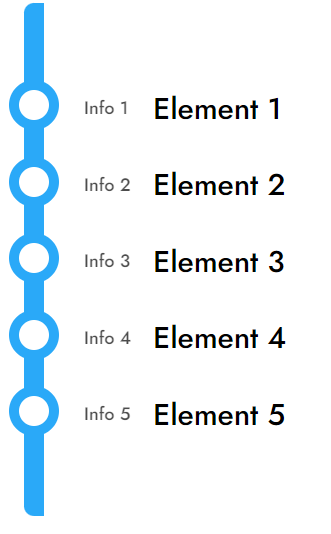
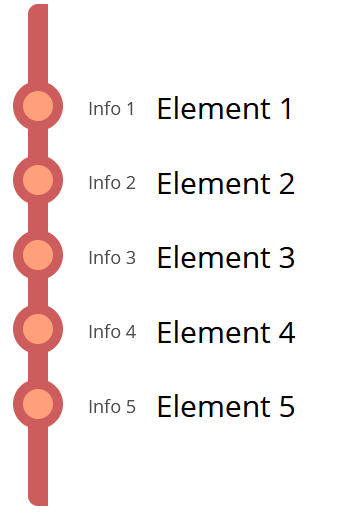
Allow for better customization

diff --git a/metro.css b/metro.css
@@ -6,8 +6,14 @@ Distributed under the conditions of the LGPL-3.0 license.
 
 @import url('https://fonts.googleapis.com/css2?family=Jost:wght@500&display=swap');
 
+:root {
+    --metro-line-color: rgb(42, 169, 248);
+    --metro-stop-color: white;
+    --metro-stop-font: 'Jost', sans-serif;
+}
+
 .filau-metro {
-    border-left: solid rgb(42, 169, 248) 20px;
+    border-left: solid var(--metro-line-color) 20px;
     margin-left: 20px;
     padding-top: 50px;
     padding-bottom: 50px;
@@ -18,7 +24,7 @@ Distributed under the conditions of the LGPL-3.0 license.
 .filau-metro > div {
     margin-top: 30px;
     margin-bottom: 30px;
-    font-family: 'Jost', serif;
+    font-family: var(--metro-stop-font);
     font-size: 30px;
 }
 
@@ -40,7 +46,7 @@ Distributed under the conditions of the LGPL-3.0 license.
     content: "";
     display: block;
     padding: 15px;
-    border: solid rgb(42, 169, 248) 10px;
+    border: solid var(--metro-line-color) 10px;
     border-radius: 50%;
-    background-color: white;
+    background-color: var(--metro-stop-color);
 }

diff --git a/example.html b/example.html
@@ -8,7 +8,7 @@
     <title>Metro stops by @filau</title>
 </head>
 <body>
-    <div class="filau-metro">
+    <div class="filau-metro" style="--metro-line-color: #CD5C5C ; --metro-stop-color: #FFA07A; --metro-stop-font: 'Open Sans'">
         <div>
             <div>Info 1</div>
             <div>Element 1</div>
